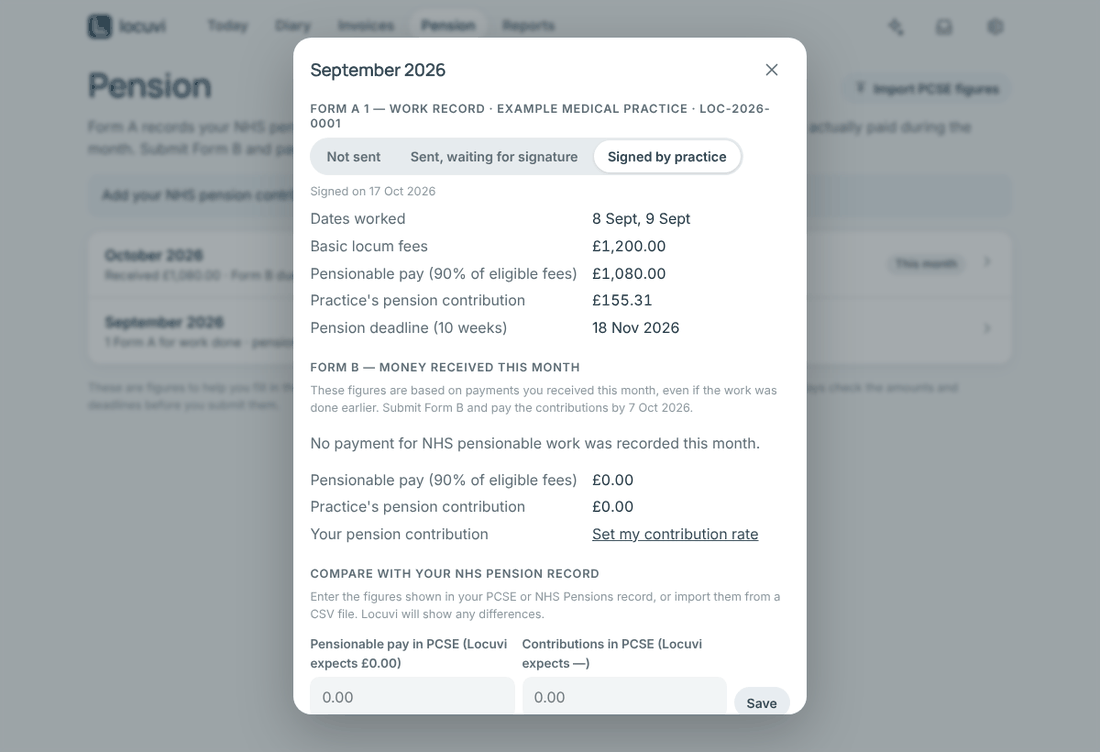
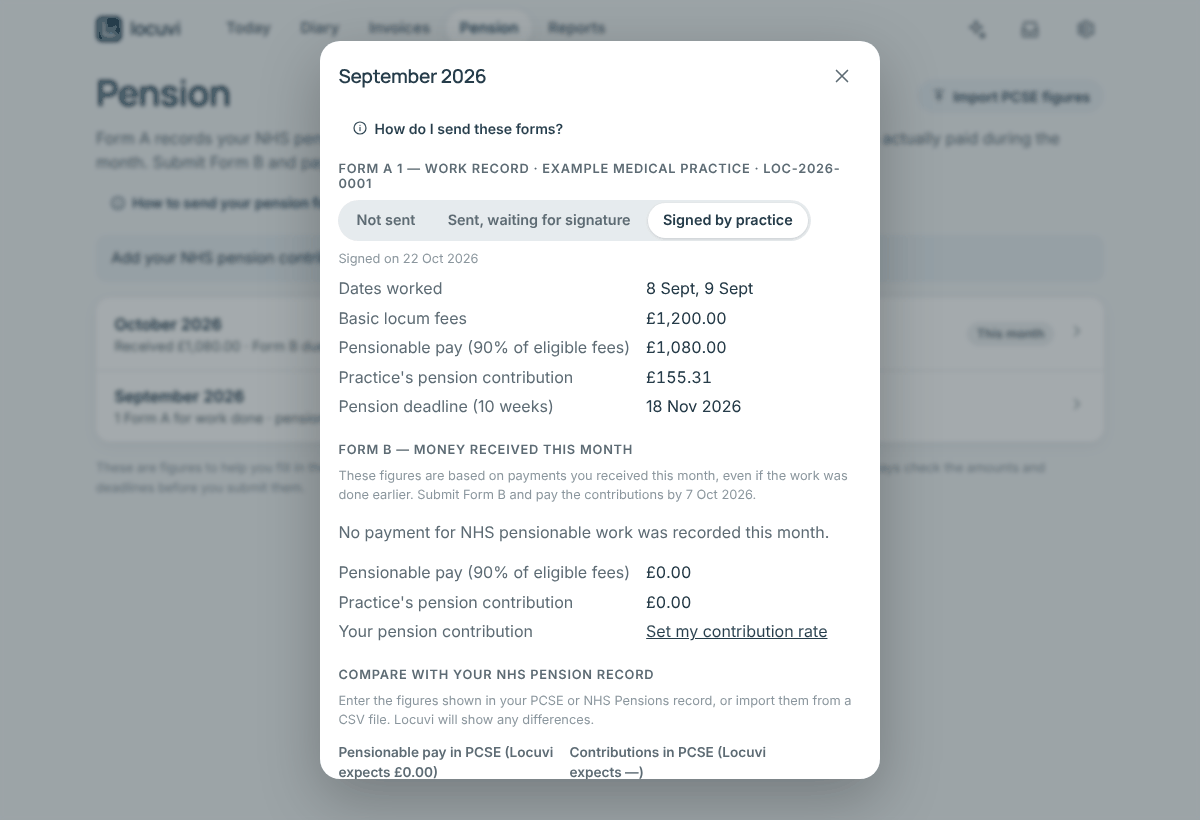
Pension: step-by-step guide to sending Forms A and B on PCSE Online, with official links (#20)
A 'How to send your pension forms' sheet on the Pension page (and inside each
month) explains, for locums new to it: first-time PCSE Online sign-in and tier,
Form A and practice approval, Form B, paying by GOV.UK Pay, the 10-week and
7th-of-month rules, what to do when stuck, and the other UK nations. Links go
to PCSE and BMA pages only. User guide, changelog, screenshots and smoke test
updated.

Claude-Session: https://claude.ai/code/session_01DF3ifHEj7zwcpRu4htNXEF

diff --git a/frontend/src/i18n/en.ts b/frontend/src/i18n/en.ts
@@ -502,6 +502,52 @@ const en = {
   "pension.set_tier": "Add your NHS pension contribution rate to calculate the Form B total.",
   "pension.set_tier_link": "Set my contribution rate",
   "pension.disclaimer": "These are figures to help you fill in the official NHS pension forms. Locuvi does not submit the forms or pay the contributions. Always check the amounts and deadlines before you submit them.",
+  "pension.guide": "How to send your pension forms",
+  "pension.guide_month": "How do I send these forms?",
+  "pguide.title": "How to send your NHS pension forms",
+  "pguide.intro": "As a freelance locum GP in England you can add your NHS locum work to your NHS pension. Each month you fill in two short forms on PCSE Online (Primary Care Support England, who run GP pensions for NHS England) and pay the contributions. Locuvi works out the figures for you; you copy them into PCSE Online.",
+  "pguide.open_pcse": "Open the PCSE page for locum GPs",
+  "pguide.once_title": "Before your first month (once only)",
+  "pguide.once_1": "Sign in to PCSE Online. Every GP on the NHS performers list in England already has an account. Your username is usually the email address the GMC has for you. If you've never signed in, use “Forgotten your login details” on the sign-in page, or ask PCSE for help (link below).",
+  "pguide.once_2": "Find your contribution rate (your “tier”). It depends on your expected pensionable pay for the year; the NHS Business Services Authority publishes the tiers each April. Add it to Locuvi so the Form B total is worked out for you.",
+  "pguide.once_3": "Make sure your invoices include the practice's NHS pension contribution. Locuvi adds it when NHS pension is switched on for the practice. You pay this part to PCSE along with your own share.",
+  "pguide.a_title": "Form A (“Locum A”): one per practice, for the work you did",
+  "pguide.a_1": "After you issue an invoice, open the month here and tap it. Each Form A shows the practice, the dates you worked, your basic fees and your pensionable pay.",
+  "pguide.a_2": "In PCSE Online, go to GP Pensions and start a new Locum A form. Choose the practice and copy in the dates and amounts from Locuvi.",
+  "pguide.a_3": "Submit it. PCSE tells the practice, and a member of their team approves (signs) it online. If the practice says they can't see it, ask them to make sure someone has the “GPP – Locum Approvals” role in PCSE Online.",
+  "pguide.a_4": "In Locuvi, set “Has the practice signed Form A?” to Sent, then to Signed by practice when they approve it. Today reminds you to chase practices that are slow.",
+  "pguide.a_5": "Watch the 10-week deadline shown under each Form A. Work that ended more than 10 weeks ago can't be added to your pension, so send Form A early and give the practice time to approve it.",
+  "pguide.b_title": "Form B (“Locum B”): once a month, for the money you received",
+  "pguide.b_1": "Form B covers the NHS pensionable fees that were paid to you during the month, even if the work was done earlier. Record payments in Locuvi so these figures are right.",
+  "pguide.b_2": "You can send Form B once the practices have approved the matching Forms A.",
+  "pguide.b_3": "In PCSE Online, start a Locum B form for the month and copy in the figures from “Form B — money received this month”.",
+  "pguide.b_4": "Submit it by the 7th of the next month. Then tap “I've submitted Form B” here so Locuvi stops reminding you.",
+  "pguide.pay_title": "Paying the contributions",
+  "pguide.pay_1": "When you submit Form B, PCSE Online works out what you owe: your own contribution plus the practice's contribution that they paid you on the invoice. Compare it with Locuvi's total.",
+  "pguide.pay_2": "The simplest way to pay is by card: use the GOV.UK Pay button at the bottom of the Form B. PCSE matches the payment to your form automatically.",
+  "pguide.pay_3": "Pay by the 7th of the month after you received the money. If you'd rather pay by bank transfer, see PCSE's payment page for how to get the bank details and which reference to quote.",
+  "pguide.rules_title": "The rules in brief",
+  "pguide.rules_1": "10 weeks: send Form A within 10 weeks of the work ending. PCSE can reject forms that arrive later, and that work can't then be added to your pension.",
+  "pguide.rules_2": "The 7th: Form B and the payment are due by the 7th of the month after you were paid.",
+  "pguide.rules_3": "90%: only 90% of your basic locum fee counts as pensionable pay. Locuvi does this sum for you.",
+  "pguide.rules_4": "Keep records: download the figures (PDF) for each month, and later check your PCSE record against Locuvi with “Compare with your NHS pension record”.",
+  "pguide.stuck_title": "If something goes wrong",
+  "pguide.stuck_1": "Can't sign in to PCSE Online: use PCSE's sign-in help page, or email or phone their support team (details on the PCSE website).",
+  "pguide.stuck_2": "Can't use PCSE Online at all: PCSE explains how to send the forms through their contact form instead.",
+  "pguide.stuck_3": "A figure is wrong after you've submitted: contact PCSE about a correction. If an invoice changed, Locuvi shows “Figures changed since you submitted”.",
+  "pguide.nations_title": "Working outside England?",
+  "pguide.nations_1": "Wales: locum pension forms and payments go to the local health board for the area, not PCSE.",
+  "pguide.nations_2": "Scotland: forms go to NHS National Services Scotland (Practitioner Services).",
+  "pguide.nations_3": "Northern Ireland: forms go to the HSC Pension Service. Locuvi's deadlines follow the rules for England, so check your own nation's rules.",
+  "pguide.links_title": "Official guidance",
+  "pguide.link_pcse": "PCSE: locum GPs (with the PCSE Online sign-in)",
+  "pguide.link_submit": "PCSE: submit Locum A and B forms",
+  "pguide.link_pay": "PCSE: paying pension contributions",
+  "pguide.link_help": "PCSE help: filling in Locum A and B",
+  "pguide.link_access": "PCSE: help signing in to PCSE Online",
+  "pguide.link_contact": "PCSE: GP pensions enquiries",
+  "pguide.link_bma": "BMA: the NHS pension scheme as a locum GP",
+  "pguide.checked": "This summary was checked against PCSE's guidance in October 2026. Rules and forms can change each April: PCSE's own pages have the final word.",
 
   "reports.title": "Reports",
   "reports.tax_year": "UK tax year",

diff --git a/frontend/src/components/PensionGuide.tsx b/frontend/src/components/PensionGuide.tsx
@@ -1,0 +1,67 @@
+import { Link } from "react-router-dom";
+import { Dialog } from "./ui";
+import { useT } from "../i18n";
+import type { MessageKey } from "../i18n/en";
+
+// Official pages only. PCSE runs the NHS pension forms for GPs in England.
+export const PCSE_LOCUM_URL = "https://pcse.england.nhs.uk/services/gp-pensions/locum-gps";
+export const LINKS: { key: MessageKey; url: string }[] = [
+  { key: "pguide.link_pcse", url: PCSE_LOCUM_URL },
+  { key: "pguide.link_submit", url: "https://pcse.england.nhs.uk/services/gp-pensions/locum-gps/submit-locum-b-forms" },
+  { key: "pguide.link_pay", url: "https://pcse.england.nhs.uk/services/gp-pensions/locum-gps/paying-pension-contributions-nhs-england" },
+  { key: "pguide.link_help", url: "https://pcse.england.nhs.uk/help/gp-pensions/pension-contributions-locum-b" },
+  { key: "pguide.link_access", url: "https://pcse.england.nhs.uk/contact-us/pcse-online-access" },
+  { key: "pguide.link_contact", url: "https://pcse.england.nhs.uk/contact-us/gp-pensions-enquiries" },
+  { key: "pguide.link_bma", url: "https://www.bma.org.uk/pay-and-contracts/pensions/being-a-member-of-a-pension-scheme/the-nhs-pension-scheme-as-a-locum-gp" },
+];
+
+// Each section: a heading and its steps, in the order a locum does them.
+export const SECTIONS: { title: MessageKey; steps: MessageKey[]; ordered?: boolean }[] = [
+  { title: "pguide.once_title", steps: ["pguide.once_1", "pguide.once_2", "pguide.once_3"] },
+  { title: "pguide.a_title", ordered: true, steps: ["pguide.a_1", "pguide.a_2", "pguide.a_3", "pguide.a_4", "pguide.a_5"] },
+  { title: "pguide.b_title", ordered: true, steps: ["pguide.b_1", "pguide.b_2", "pguide.b_3", "pguide.b_4"] },
+  { title: "pguide.pay_title", steps: ["pguide.pay_1", "pguide.pay_2", "pguide.pay_3"] },
+  { title: "pguide.rules_title", steps: ["pguide.rules_1", "pguide.rules_2", "pguide.rules_3", "pguide.rules_4"] },
+  { title: "pguide.stuck_title", steps: ["pguide.stuck_1", "pguide.stuck_2", "pguide.stuck_3"] },
+  { title: "pguide.nations_title", steps: ["pguide.nations_1", "pguide.nations_2", "pguide.nations_3"] },
+];
+
+export function PensionGuide({ open, onClose }: { open: boolean; onClose: () => void }) {
+  const { t } = useT();
+  return (
+    <Dialog open={open} title={t("pguide.title")} onClose={onClose}
+      footer={<button className="btn" onClick={onClose}>{t("common.close")}</button>}>
+      <p style={{ marginTop: 0 }}>{t("pguide.intro")}</p>
+      <p>
+        <a className="btn secondary small" href={PCSE_LOCUM_URL} target="_blank" rel="noreferrer noopener">
+          {t("pguide.open_pcse")}
+        </a>
+      </p>
+      {SECTIONS.map((s) => {
+        const List = s.ordered ? "ol" : "ul";
+        return (
+          <section key={s.title}>
+            <h3>{t(s.title)}</h3>
+            <List style={{ paddingLeft: "1.25rem", margin: "0.25rem 0 0.75rem" }}>
+              {s.steps.map((k) => <li key={k} style={{ marginBottom: "0.35rem" }}>{t(k)}</li>)}
+            </List>
+            {s.title === "pguide.once_title" && (
+              <p className="hint" style={{ marginTop: 0 }}>
+                <Link to="/settings/pension" onClick={onClose}>{t("pension.set_tier_link")}</Link>
+              </p>
+            )}
+          </section>
+        );
+      })}
+      <h3>{t("pguide.links_title")}</h3>
+      <ul style={{ paddingLeft: "1.25rem", margin: "0.25rem 0 0.75rem" }}>
+        {LINKS.map((l) => (
+          <li key={l.key} style={{ marginBottom: "0.35rem" }}>
+            <a href={l.url} target="_blank" rel="noreferrer noopener">{t(l.key)}</a>
+          </li>
+        ))}
+      </ul>
+      <p className="hint">{t("pguide.checked")}</p>
+    </Dialog>
+  );
+}

diff --git a/frontend/src/pages/Pension.tsx b/frontend/src/pages/Pension.tsx
@@ -1,6 +1,7 @@
 import { useCallback, useEffect, useRef, useState } from "react";
 import { Link } from "react-router-dom";
 import { Dialog, ErrorAlert, Icon, PageHead, Segmented, useConfirm, useToast } from "../components/ui";
+import { PensionGuide } from "../components/PensionGuide";
 import { restoreFromBin } from "../lib/trash";
 import { useT } from "../i18n";
 import { api, downloadBlob } from "../lib/api";
@@ -54,6 +55,7 @@ export default function PensionPage() {
   const confirm = useConfirm();
   const [data, setData] = useState<{ months: PensionMonth[]; employee_rate: string | null } | null>(null);
   const [open, setOpen] = useState<MonthFigures | null>(null);
+  const [guide, setGuide] = useState(false);
   const [error, setError] = useState<unknown>(null);
   const pcseFile = useRef<HTMLInputElement>(null);
 
@@ -151,6 +153,11 @@ export default function PensionPage() {
       <input ref={pcseFile} type="file" accept=".csv,text/csv" hidden aria-label={t("pension.pcse_import")}
         onChange={(e) => { const f = e.target.files?.[0]; if (f) void importPcse(f); e.target.value = ""; }} />
       <p className="muted" style={{ marginTop: "-0.5rem" }}>{t("pension.lead")}</p>
+      <p style={{ marginTop: "-0.25rem" }}>
+        <button type="button" className="btn ghost small" onClick={() => setGuide(true)}>
+          <Icon name="info" size={16} /> {t("pension.guide")}
+        </button>
+      </p>
       <ErrorAlert error={error} />
       {data && !data.employee_rate && data.months.length > 0 && (
         <div className="alert info">
@@ -208,6 +215,11 @@ export default function PensionPage() {
               </>
             );
           })()}>
+          <p style={{ marginTop: 0 }}>
+            <button type="button" className="btn ghost small" onClick={() => { setOpen(null); setGuide(true); }}>
+              <Icon name="info" size={16} /> {t("pension.guide_month")}
+            </button>
+          </p>
           {open.forms_a.map((a, i) => (
             <div key={i} style={{ marginBottom: "1rem" }}>
               <h3 style={{ marginTop: i ? "0.5rem" : 0 }}>{t("pension.form_a", { n: i + 1 })} · {a.practice_name} · {a.invoices.join(", ")}</h3>
@@ -266,6 +278,7 @@ export default function PensionPage() {
           <PcseBox key={open.month} fig={open} onSave={(pay, c) => void savePcse(open.month, pay, c)} />
         </Dialog>
       )}
+      <PensionGuide open={guide} onClose={() => setGuide(false)} />
     </>
   );
 }

diff --git a/frontend/src/i18n/i18n.test.ts b/frontend/src/i18n/i18n.test.ts
@@ -2,6 +2,7 @@ import { readFileSync, readdirSync, statSync } from "node:fs";
 import { join } from "node:path";
 import { catalogues, translate } from "./index";
 import en from "./en";
+import { LINKS, SECTIONS } from "../components/PensionGuide";
 
 function sources(dir: string): string[] {
   return readdirSync(dir).flatMap((f) => {
@@ -48,6 +49,7 @@ describe("i18n catalogues", () => {
     for (const k of ["booking", "remittance", "statement", "pension", "other"]) expect(en).toHaveProperty(`inbox.kind_${k}`);
     for (const k of ["number", "amount_practice", "amount", "combined"]) expect(en).toHaveProperty(`bank.kind_${k}`);
     for (const s of ["accepted", "partial", "rejected", "verified"]) expect(en).toHaveProperty(`inbox.proposal_${s}`);
+    for (const k of [...SECTIONS.flatMap((s) => [s.title, ...s.steps]), ...LINKS.map((l) => l.key)]) expect(en).toHaveProperty([k]);
   });
 
   it("other locales only contain known keys with the same placeholders", () => {

diff --git a/frontend/src/i18n/de.ts b/frontend/src/i18n/de.ts
@@ -416,6 +416,8 @@ const de: Catalogue = {
   "pension.total": "Insgesamt zu zahlen",
   "pension.set_tier": "Geben Sie Ihren Beitragssatz ein, um den vollen Betrag für Formular B zu sehen.",
   "pension.set_tier_link": "Beitragssatz festlegen",
+  "pension.guide": "So reichen Sie Ihre Rentenformulare ein",
+  "pension.guide_month": "Wie reiche ich diese Formulare ein?",
   "pension.disclaimer": "Locuvi bereitet die Zahlen für die offiziellen NHSBSA-Formulare vor, reicht aber nichts ein. Beträge und Fristen bitte anhand der aktuellen NHSBSA-/PCSE-Vorgaben prüfen.",
   "reports.title": "Auswertungen",
   "reports.tax_year": "Steuerjahr",

diff --git a/frontend/src/i18n/fr.ts b/frontend/src/i18n/fr.ts
@@ -416,6 +416,8 @@ const fr: Catalogue = {
   "pension.total": "Total à régler",
   "pension.set_tier": "Renseignez votre taux de cotisation pour afficher le total du formulaire B.",
   "pension.set_tier_link": "Définir le taux",
+  "pension.guide": "Comment envoyer vos formulaires de retraite",
+  "pension.guide_month": "Comment envoyer ces formulaires ?",
   "pension.disclaimer": "Locuvi prépare les chiffres à reporter dans les formulaires officiels NHSBSA, sans les envoyer. Vérifiez les montants et échéances selon les règles NHSBSA/PCSE en vigueur.",
   "reports.title": "Rapports",
   "reports.tax_year": "Année fiscale",

diff --git a/frontend/src/i18n/ko.ts b/frontend/src/i18n/ko.ts
@@ -416,6 +416,8 @@ const ko: Catalogue = {
   "pension.total": "총 납부액",
   "pension.set_tier": "Form B 총 납부액을 보려면 본인 연금 기여율을 설정하세요.",
   "pension.set_tier_link": "기여율 설정",
+  "pension.guide": "연금 양식 제출 방법",
+  "pension.guide_month": "이 양식은 어떻게 제출하나요?",
   "pension.disclaimer": "Locuvi는 NHSBSA 공식 양식 입력용 금액만 준비하며 제출하지 않습니다. 최신 NHSBSA/PCSE 지침에 따라 금액과 기한을 확인하세요.",
   "reports.title": "보고서",
   "reports.tax_year": "과세연도",

diff --git a/frontend/src/i18n/es.ts b/frontend/src/i18n/es.ts
@@ -416,6 +416,8 @@ const es: Catalogue = {
   "pension.total": "Total a pagar",
   "pension.set_tier": "Indica tu tramo de aportación para ver el total del formulario B.",
   "pension.set_tier_link": "Configurar tramo",
+  "pension.guide": "Cómo enviar tus formularios de pensión",
+  "pension.guide_month": "¿Cómo envío estos formularios?",
   "pension.disclaimer": "Locuvi prepara las cifras para los formularios oficiales de NHSBSA, pero no los envía. Comprueba los importes y plazos según NHSBSA/PCSE.",
   "reports.title": "Informes",
   "reports.tax_year": "Ejercicio fiscal",

diff --git a/frontend/src/i18n/pt.ts b/frontend/src/i18n/pt.ts
@@ -416,6 +416,8 @@ const pt: Catalogue = {
   "pension.total": "Total a pagar",
   "pension.set_tier": "Indique a sua taxa de contribuição para ver o total do formulário B.",
   "pension.set_tier_link": "Definir taxa",
+  "pension.guide": "Como enviar os formulários de pensão",
+  "pension.guide_month": "Como envio estes formulários?",
   "pension.disclaimer": "O Locuvi prepara os valores para os formulários oficiais NHSBSA, mas não os submete. Confirme valores e prazos pelas regras atuais NHSBSA/PCSE.",
   "reports.title": "Relatórios",
   "reports.tax_year": "Ano fiscal",

diff --git a/frontend/src/components/ui.tsx b/frontend/src/components/ui.tsx
@@ -47,6 +47,7 @@ const ICONS: Record<string, string> = {
   sparkle: "M12 3l1.9 5.1L19 10l-5.1 1.9L12 17l-1.9-5.1L5 10l5.1-1.9zM19 16l.8 2.2L22 19l-2.2.8L19 22l-.8-2.2L16 19l2.2-.8z",
   paste: "M9 3h6v4H9zM7 5H5v16h14V5h-2M9 12h6M9 16h4",
   upload: "M12 20V9M7 14l5-5 5 5M5 4h14",
+  info: "M12 21a9 9 0 1 0 0-18 9 9 0 0 0 0 18zM12 11v5M12 8v.01",
   trash: "M4 7h16M10 11v6M14 11v6M6 7l1 13h10l1-13M9 7V4h6v3",
 };
 

diff --git a/docs/USER_GUIDE.md b/docs/USER_GUIDE.md
@@ -378,6 +378,32 @@ The **Pension** page prepares the figures for your monthly GP locum NHS pension 
 
 <img src="images/pension.png" alt="Pension page: a list of months with what's due">
 
+### New to locum pension forms? Start here
+
+Tap **How to send your pension forms** at the top of the Pension page (or **How do I send
+these forms?** inside a month). It explains, step by step and in plain English:
+
+- what to do once before your first month (signing in to PCSE Online, your contribution rate),
+- how to send **Form A** for each practice and get it approved,
+- how to send **Form B** each month and pay the contributions,
+- the deadlines (10 weeks for Form A, the 7th of the month for Form B and payment),
+- what to do if something goes wrong, and where forms go in Wales, Scotland and Northern Ireland,
+- links to the official PCSE pages, including the **PCSE Online** sign-in.
+
+<img src="images/pension-guide.png" alt="The pension guide: step-by-step help with Forms A and B and links to PCSE">
+
+In short, each month you:
+
+1. Send a **Form A** on [PCSE Online](https://pcse.england.nhs.uk/services/gp-pensions/locum-gps)
+   for each practice you worked at, copying the figures from Locuvi. The practice approves it
+   online.
+2. Send **Form B** for the money you received that month, once the practices have approved
+   the matching Forms A.
+3. Pay the contributions (yours and the practice's) by the 7th of the following month. The
+   simplest way is by card with the GOV.UK Pay button on Form B.
+
+### Your months
+
 Each month in the list shows its forms and deadlines. Open a month to see the details:
 
 <img src="images/pension-month.png" alt="A month's pension figures: Form A for a practice and Form B for money received">
@@ -388,7 +414,8 @@ There's one **Form A** per practice for each month you worked. It shows the **da
 worked**, **basic locum fees**, **pensionable pay (90% of eligible fees)**, the **practice's
 pension contribution** and the **10-week pension deadline**.
 
-The practice has to sign Form A. Track it with the three buttons: **Not sent** →
+You send Form A on PCSE Online and the practice approves (signs) it there. Track it with the
+three buttons: **Not sent** →
 **Sent, waiting for signature** → **Signed by practice**. Locuvi reminds you if a signature
 is taking a while.
 

diff --git a/CHANGELOG.md b/CHANGELOG.md
@@ -15,6 +15,9 @@ releases.
   to its own model list and prices; the AI guide has the full table.
 - **Check key** also works for companies without a model list (one tiny test request).
 - Reasoning text that some models write into their answer is removed.
+- **Pension guide**: a plain-English, step-by-step guide on the Pension page to sending Forms A
+  and B on PCSE Online and paying the contributions, with the deadlines, what to do if
+  something goes wrong, and links to the official PCSE pages.
 - Invoice emails now carry a date header (some spam filters distrust mail without one), and a
   mistyped email server name gets a clear message instead of a general error.
 
